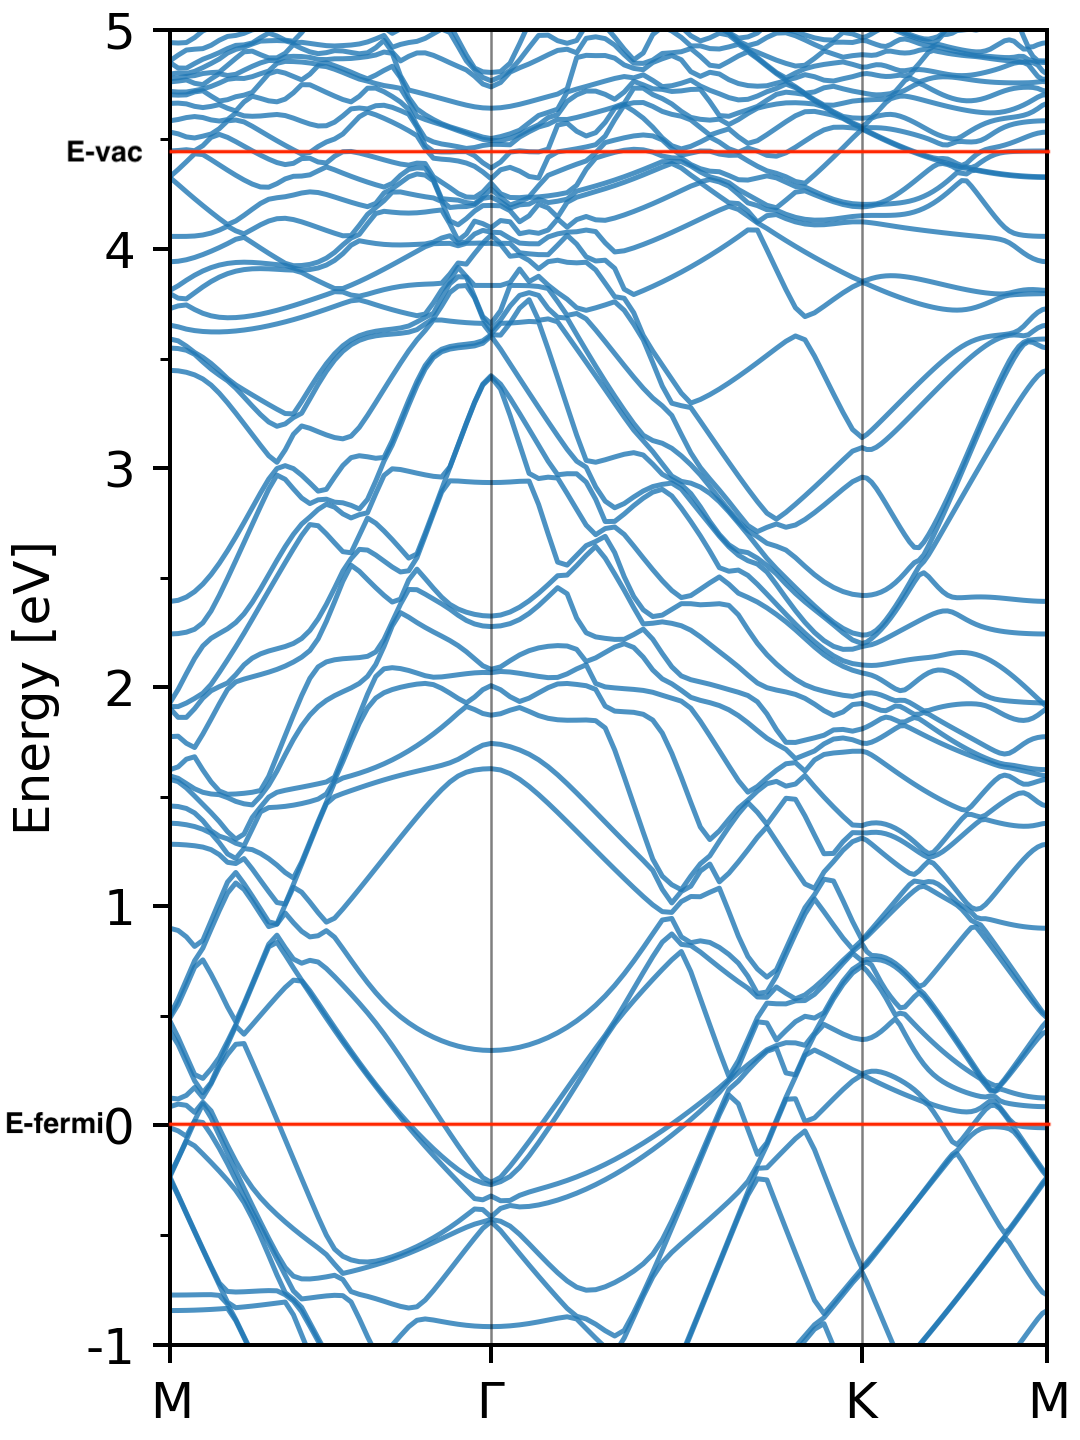
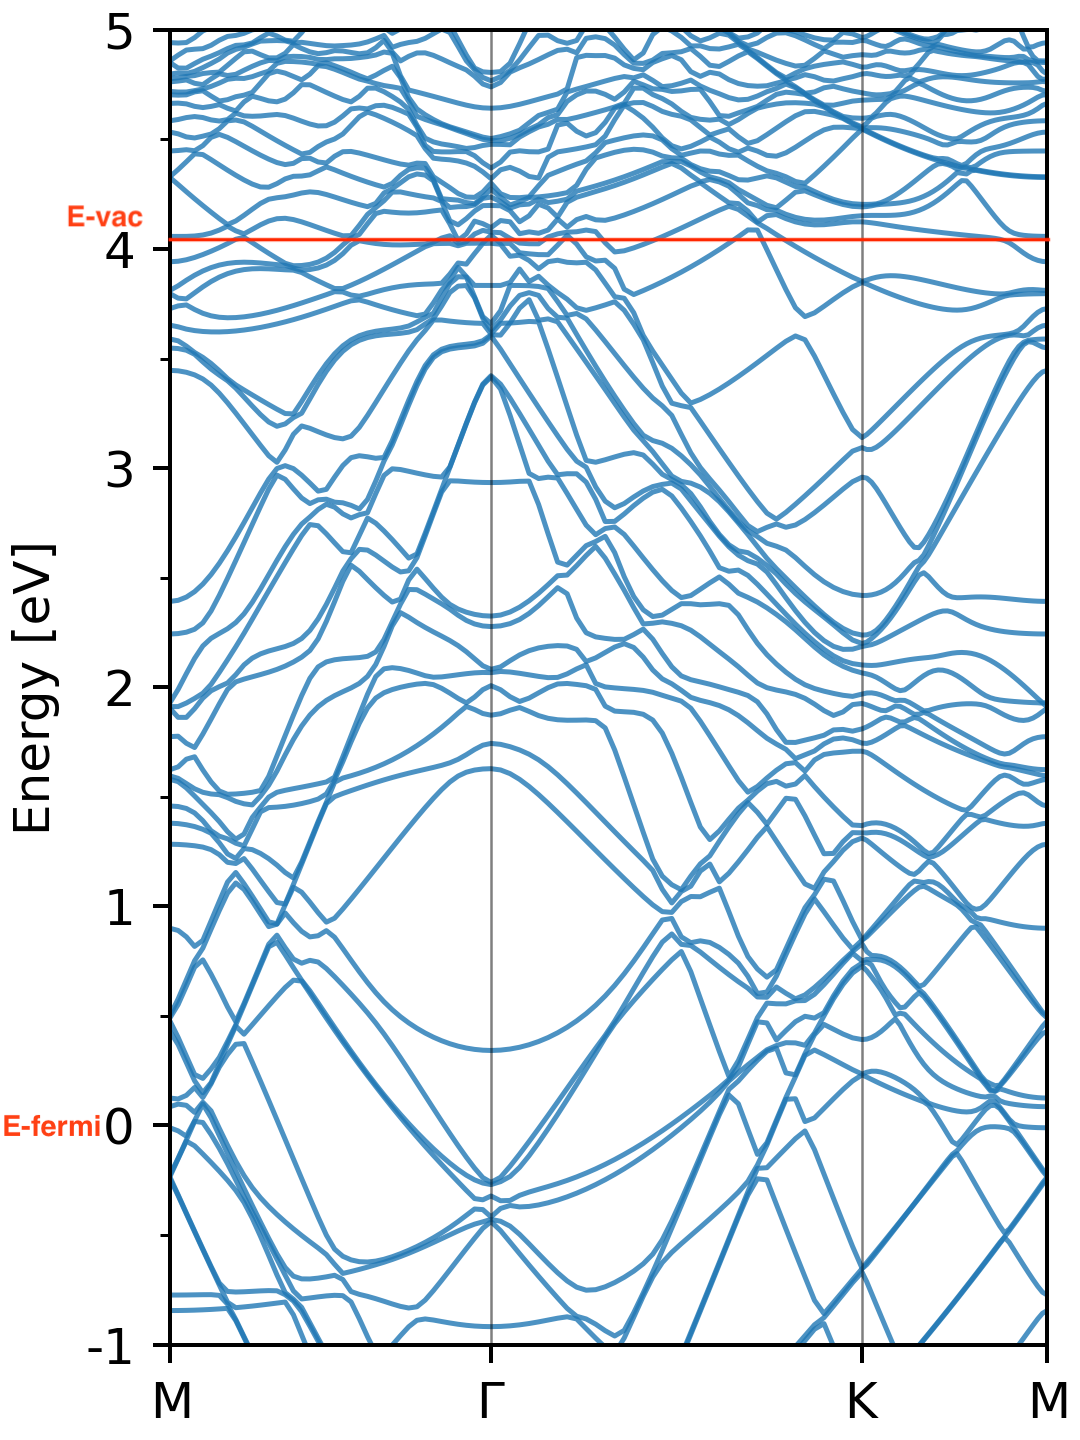
[issues-with-ips] fix vacuum level on bandstructure

diff --git a/content/post/issues-with-ips.md b/content/post/issues-with-ips.md
@@ -164,7 +164,7 @@ IPS 在实空间的分布特征相当明显：
 
 如下图[^fn:4]所示：
 
-<a id="orga641b92"></a>
+<a id="org89ec0e9"></a>
 
 {{< figure src="/ox-hugo/ips_ref1.jpg" caption="Figure 4: IPS 的实空间分布曲线，最下面的曲线是镜像势的曲线。" >}}
 
@@ -175,14 +175,14 @@ IPS 在实空间的分布特征相当明显：
 
 在 Benzene on Ag(111) 体系中，对应的 IPS 实空间分布曲线如下：
 
-<a id="orge3160b9"></a>
+<a id="orgae1ab44"></a>
 
 {{< figure src="/ox-hugo/AgBenzene-ips1.png" caption="Figure 5: Benzene on Ag(111) 表面 IPS 的实空间分布曲线" >}}
 
 如果只看 \\(z\\) 方向上的波函数觉得不放心，可以把某条带在实空间的分布画出来，如果它在真空中，并且上下表面近似为平面，即在水平方向上为近自由电子，也就可认为它是
 IPS ，如下图所示：
 
-<a id="org78364c4"></a>
+<a id="orge4a4ce4"></a>
 
 {{< figure src="/ox-hugo/AgBenzene-ipsrealspace.png" caption="Figure 6: Benzene on Ag(111) 体系 IPS 的实空间分布，这里每张图的等值面 Level 不同，以体现出对应数量的波包" >}}
 
